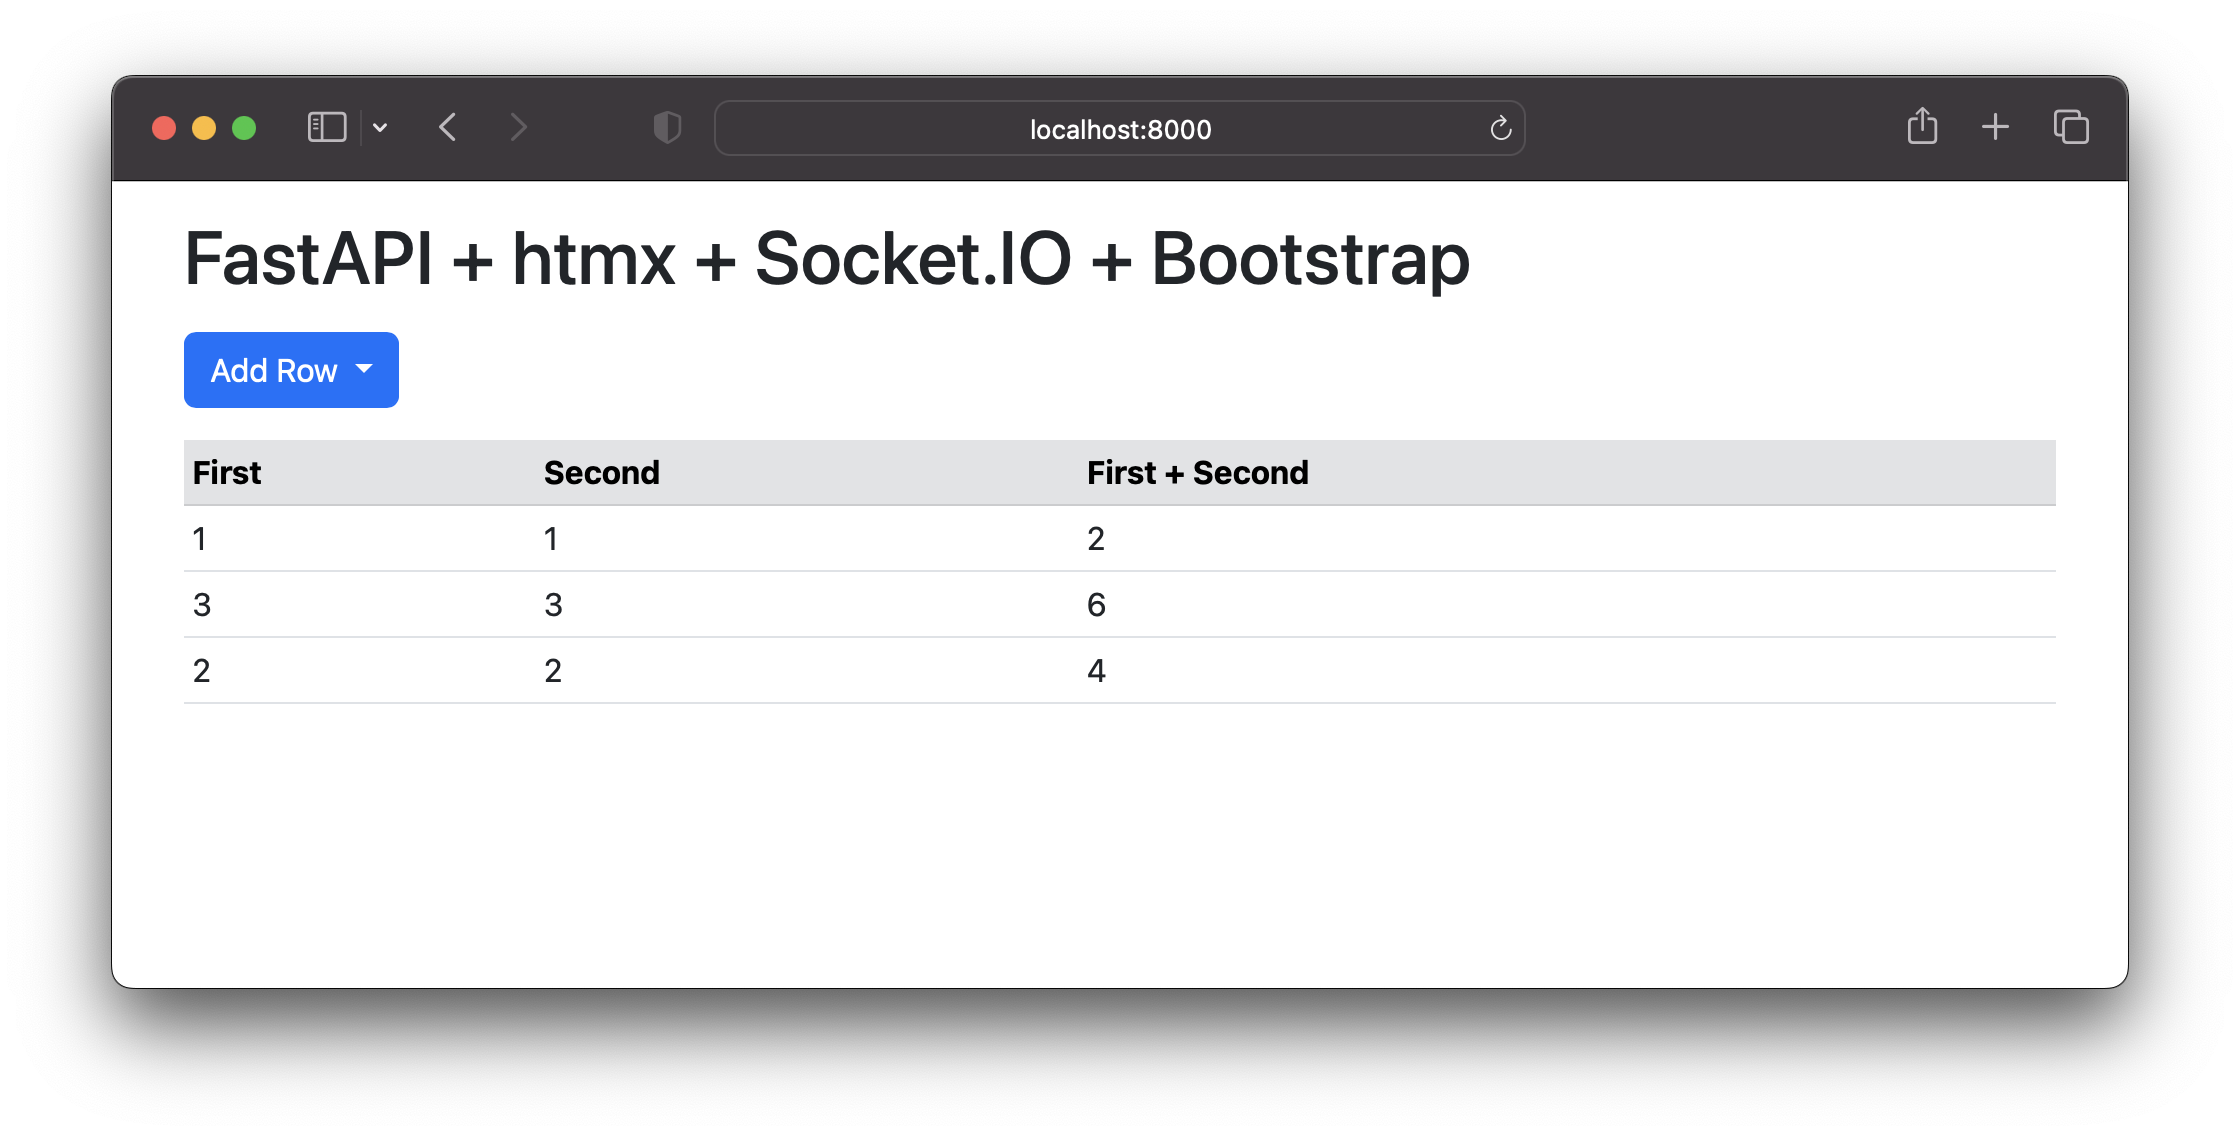
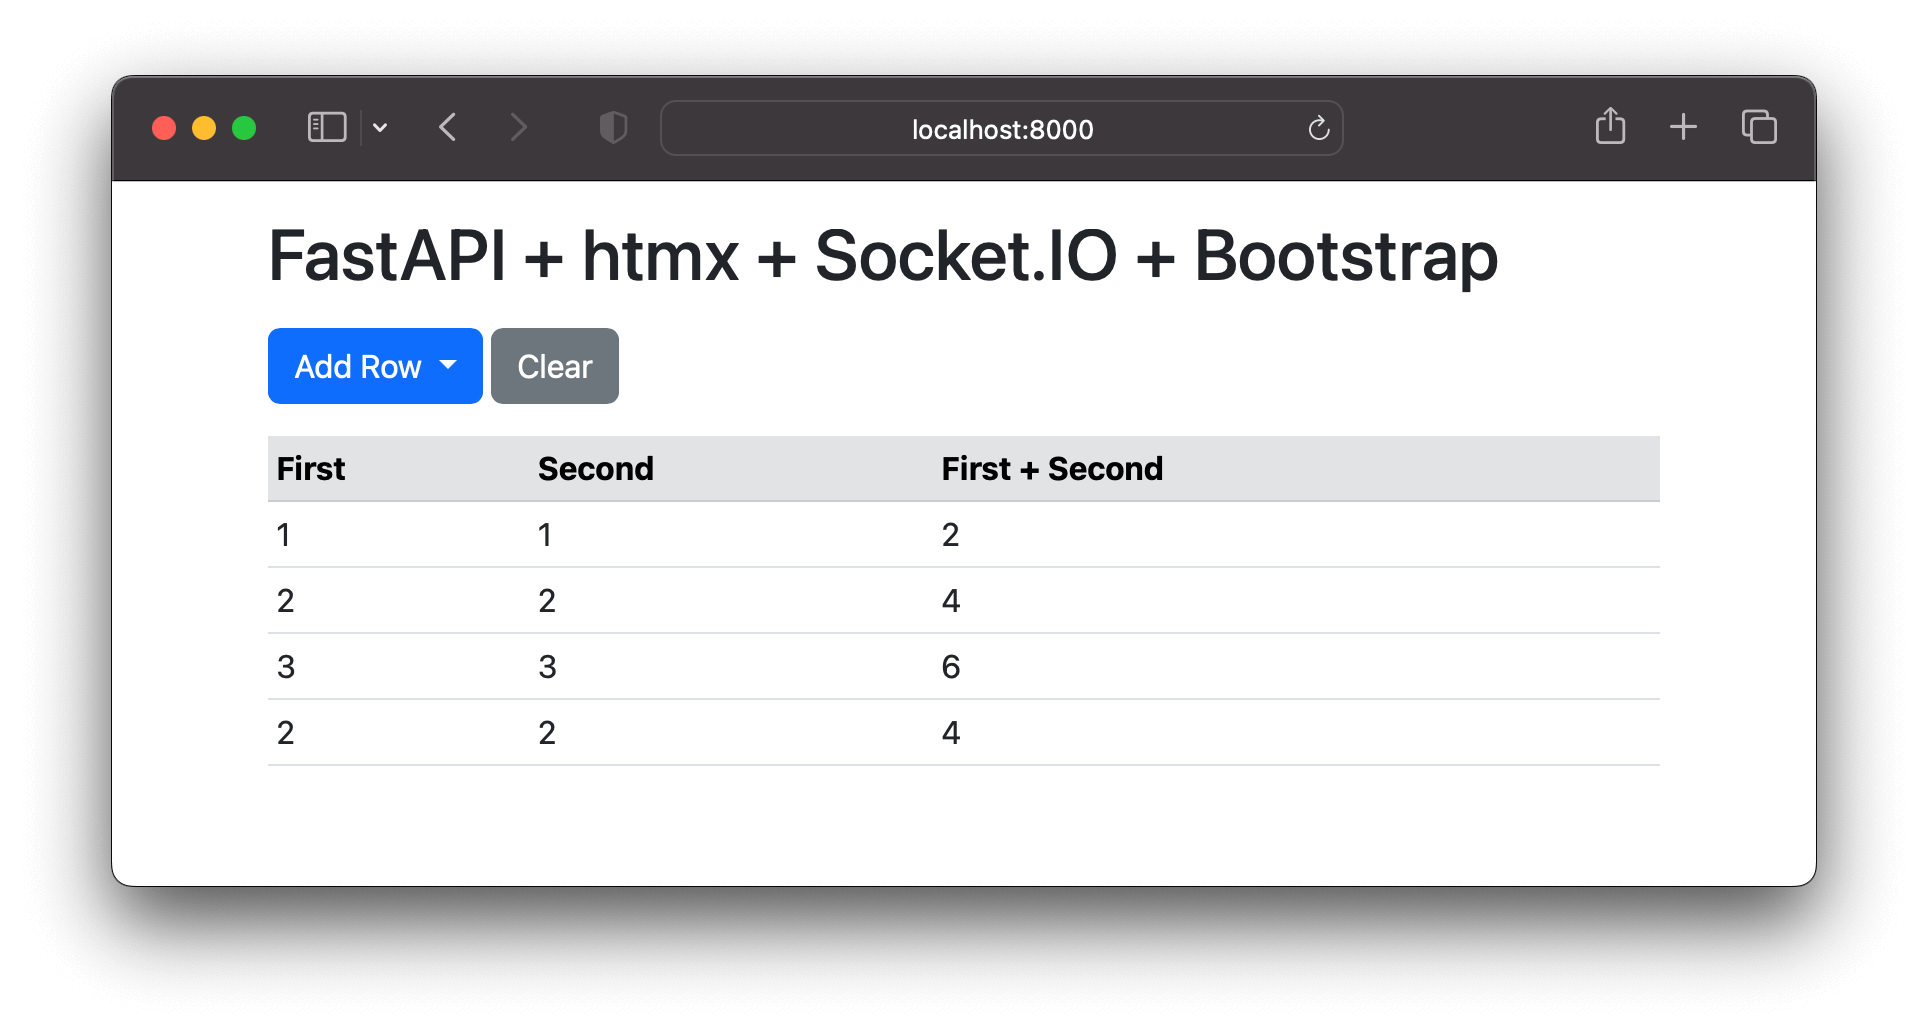
added clear button

diff --git a/app/templates/index.html b/app/templates/index.html
@@ -27,6 +27,7 @@
         <a class="dropdown-item" hx-post="/add-table-row" hx-swap="none" hx-vals='{"value": "2"}'>2</a>
         <a class="dropdown-item" hx-post="/add-table-row" hx-swap="none" hx-vals='{"value": "3"}'>3</a>
       </div>
+      <button class="btn btn-secondary" hx-post="/clear-table" hx-swap="none" hx-vals='{"value": "1"}'>Clear</button>
     </div>
     {% include 'table.html' %}
   </div>

diff --git a/app/main.py b/app/main.py
@@ -15,12 +15,14 @@ sio = socketio.AsyncServer(async_mode="asgi")
 sio_app = socketio.ASGIApp(sio, app)
 
 # Fake database
-db = [[1, 1]]
+db = []
 
 
 def get_data():
     """Adds the calculated third column"""
-    return [row + [sum((row[0], row[1]))] for row in db]
+    if db:
+        return [row + [sum((row[0], row[1]))] for row in db]
+    return []
 
 
 # Endpoints
@@ -42,6 +44,12 @@ async def table(request: Request):
 @app.post("/add-table-row")
 async def add_table_row(value: int = Form()):
     db.append([value, value])
+    await sio.emit("htmx-trigger", {"event": "update-table"})
+
+
+@app.post("/clear-table")
+async def clear_table(value: int = Form()):
+    db.clear()
     await sio.emit("htmx-trigger", {"event": "update-table"})
 
 
